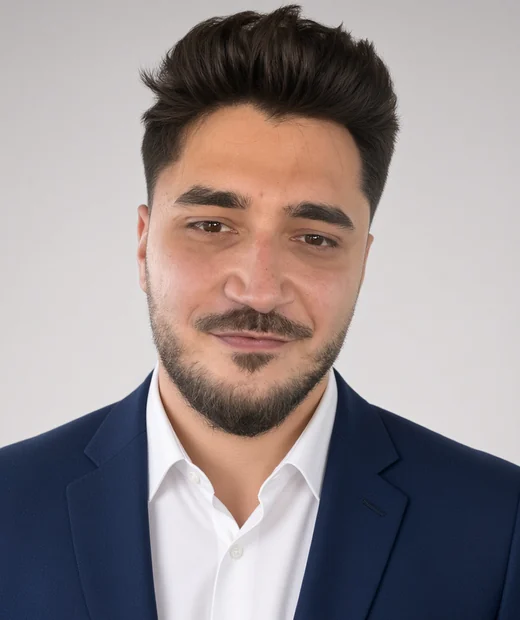
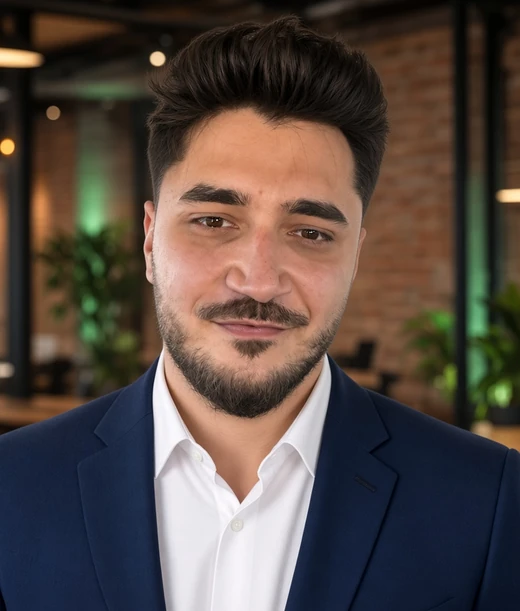
fix: choose Romanian from the Bucharest timezone and restore Remus's office portrait (#21)
A Romanian browser language no longer opens the Romanian site. Only
Europe/Bucharest does, and a language saved by the removed switcher is
still cleared. Remus's founders photo is the approved office portrait,
cropped like Razvan's and served as lazy-loaded AVIF and WebP.

diff --git a/src/locale.ts b/src/locale.ts
@@ -40,15 +40,9 @@ export const localizePath = (path: string, locale: Locale): string => {
   return normalized === "/" ? "/ro/" : `/ro${normalized}`;
 };
 
-export const detectLocale = (languages: readonly string[], timeZone: string): Locale => {
-  const romanianLanguage = languages.some((language) => language.toLowerCase().split("-")[0] === "ro");
-
-  if (romanianLanguage || timeZone === "Europe/Bucharest") {
-    return "ro";
-  }
-
-  return "en";
-};
+/** Romanian only for a device set to Europe/Bucharest. Browser language is not a signal. */
+export const detectLocale = (timeZone: string): Locale =>
+  timeZone === "Europe/Bucharest" ? "ro" : "en";
 
 export const isSearchBot = (userAgent: string, webdriver: boolean): boolean =>
   webdriver || SEARCH_BOT.test(userAgent);
@@ -64,10 +58,11 @@ export interface LocaleRedirectInput {
 /**
  * Client-side locale choice for static hosting.
  *
- * Browser language (`ro`) and the Europe/Bucharest timezone select Romanian.
- * Every other visitor gets English. Search bots are never redirected, so both
- * URL sets stay crawlable. A redirect happens only when the current URL's
- * language differs from the detected one, so the two versions cannot loop.
+ * Europe/Bucharest selects Romanian. Every other timezone gets English.
+ * Browser language is not used. A choice saved by the removed switcher is
+ * cleared and ignored. Search bots are never redirected, so both URL sets
+ * stay crawlable. A redirect happens only when the current URL's language
+ * differs from the detected one, so the two versions cannot loop.
  */
 export const localeRedirectPath = ({
   pathname,

diff --git a/tests/locale.test.ts b/tests/locale.test.ts
@@ -34,12 +34,12 @@ describe("locale paths", () => {
 });
 
 describe("locale detection", () => {
-  it("treats Romanian browser language or the Bucharest timezone as Romania", () => {
-    expect(detectLocale(["ro-RO", "en-GB"], "Europe/London")).toBe("ro");
-    expect(detectLocale(["en-GB"], "Europe/Bucharest")).toBe("ro");
-    expect(detectLocale(["ro"], "America/New_York")).toBe("ro");
-    expect(detectLocale(["en-GB", "en"], "Europe/London")).toBe("en");
-    expect(detectLocale(["en-GB"], "Europe/Chisinau")).toBe("en");
+  it("selects Romanian only for the Europe/Bucharest timezone", () => {
+    expect(detectLocale("Europe/Bucharest")).toBe("ro");
+    expect(detectLocale("Europe/London")).toBe("en");
+    expect(detectLocale("Europe/Chisinau")).toBe("en");
+    expect(detectLocale("America/New_York")).toBe("en");
+    expect(detectLocale("")).toBe("en");
   });
 
   it("clears a previously saved language choice", () => {

diff --git a/src/locale-client.ts b/src/locale-client.ts
@@ -10,25 +10,22 @@ const forgetStoredLocale = (view: Window): void => {
   }
 };
 
+const readTimeZone = (): string => {
+  try {
+    return Intl.DateTimeFormat().resolvedOptions().timeZone;
+  } catch {
+    return "";
+  }
+};
+
 export const redirectForLocale = (view: Window): boolean => {
   forgetStoredLocale(view);
-
-  const languages = view.navigator.languages?.length
-    ? view.navigator.languages
-    : [view.navigator.language].filter((language) => language);
-  let timeZone = "";
-
-  try {
-    timeZone = Intl.DateTimeFormat().resolvedOptions().timeZone;
-  } catch {
-    timeZone = "";
-  }
 
   const target = localeRedirectPath({
     pathname: view.location.pathname,
     search: view.location.search,
     hash: view.location.hash,
-    detected: detectLocale(languages, timeZone),
+    detected: detectLocale(readTimeZone()),
     isBot: isSearchBot(view.navigator.userAgent, view.navigator.webdriver),
   });
 

diff --git a/tests/render.test.ts b/tests/render.test.ts
@@ -292,7 +292,7 @@ describe("homepage renderer", () => {
     expect(pagesHtml).toContain('srcset="/team/razvan_cristofor-520.webp 520w, /team/razvan_cristofor-1040.webp 1040w" sizes="(min-width: 48rem) 26rem, 80vw"');
     expect(pagesHtml).toContain('<source type="image/avif" srcset="/team/remus_baciu-520.avif 520w, /team/remus_baciu-1040.avif 1040w" sizes="(min-width: 48rem) 26rem, 80vw" />');
     expect(pagesHtml).toContain('<source type="image/webp" srcset="/team/remus_baciu-520.webp 520w, /team/remus_baciu-1040.webp 1040w" sizes="(min-width: 48rem) 26rem, 80vw" />');
-    expect(pagesHtml).toContain('alt="Remus Baciu" width="520" height="620" loading="lazy"');
+    expect(pagesHtml).toContain('alt="Remus Baciu" width="520" height="611" loading="lazy"');
   });
 
   it("omits the background grid so it does not compete with the hero process", () => {

diff --git a/src/render.ts b/src/render.ts
@@ -90,7 +90,7 @@ const renderFounderPicture = (
     baseUrl,
   );
 
-  return `<picture>${avif}${webp}<img src="${escapeHtml(publicAssetUrl(image, baseUrl))}" alt="${escapeHtml(alt)}" width="520" height="620" loading="lazy" decoding="async" /></picture>`;
+  return `<picture>${avif}${webp}<img src="${escapeHtml(publicAssetUrl(image, baseUrl))}" alt="${escapeHtml(alt)}" width="520" height="611" loading="lazy" decoding="async" /></picture>`;
 };
 
 const renderContactActions = (
